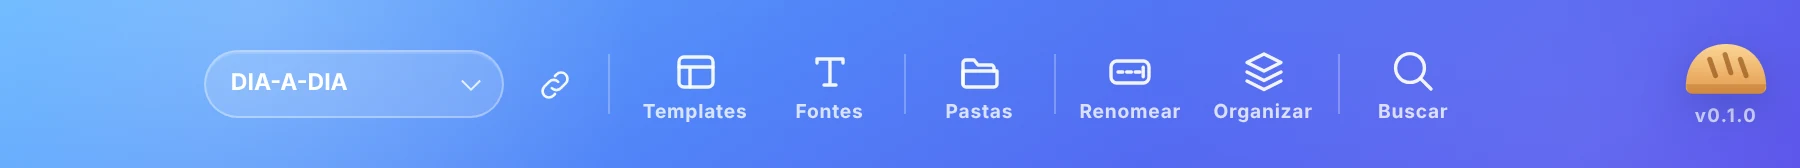
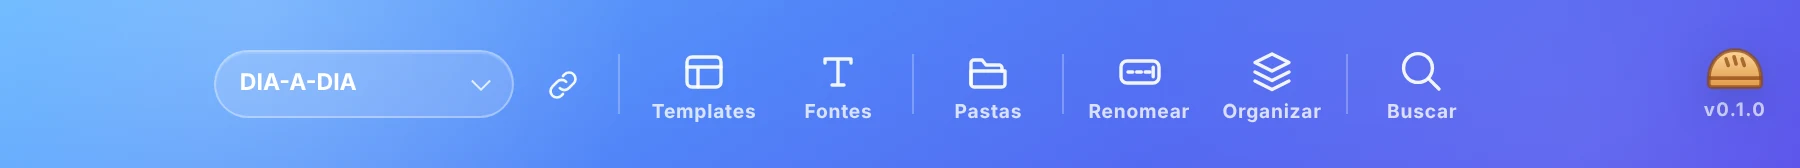
aviso das fontes mostra o resultado no mesmo lugar e desliza ao abrir e fechar; pãozinho menor e com contorno
- o aviso acima do input mostra 'instalando', o sucesso ou o erro no mesmo lugar; abre e fecha deslizando, e o que está embaixo acompanha
- texto: 'Fontes instaladas. Se precisar, reinicie o After Effects e/ou a máquina.' (fecha sozinho depois de 7 s)
- logo: 20% menor, mais arredondado, com contorno, linha da base e ranhuras curtas

Claude-Session: https://claude.ai/code/session_01DrYHfUyMEmqYvcFyKefNe2

diff --git a/extension/client/js/app.js b/extension/client/js/app.js
@@ -1109,36 +1109,86 @@ Toda a conversa com o After Effects passa por PAD_BRIDGE.call (bridge.js → hos
 		return state.fonts && state.selected && state.fonts.uri === state.selected.uri ? state.fonts.missing : [];
 	}
 
+	// Abre / fecha o aviso deslizando: o que está embaixo acompanha a altura (e o espaço entre os itens).
+	function slideStrip(box, open) {
+		var gap = parseFloat(getComputedStyle(box.parentNode).rowGap) || 0;
+		var closed = { height: '0px', paddingTop: '0px', paddingBottom: '0px', borderTopWidth: '0px', borderBottomWidth: '0px', marginBottom: -gap + 'px', opacity: 0 };
+
+		if (box._slide) box._slide.cancel();
+
+		if (open) box.hidden = false;
+
+		var full = { height: box.offsetHeight + 'px', paddingTop: '', paddingBottom: '', borderTopWidth: '', borderBottomWidth: '', marginBottom: '0px', opacity: 1 };
+
+		box.style.overflow = 'hidden';
+		box._slide = box.animate(open ? [closed, full] : [full, closed], { duration: 320, easing: 'cubic-bezier(0.22, 1, 0.36, 1)' });
+		box._slide.onfinish = function () {
+			box._slide = null;
+			box.style.overflow = '';
+			if (!open) box.hidden = true;
+		};
+	}
+
+	function stripButton(className, text, title, onClick) {
+		var btn = el('button', className, text);
+
+		btn.type = 'button';
+		btn.title = title;
+		btn.setAttribute('aria-label', title);
+		btn.addEventListener('click', onClick);
+
+		return btn;
+	}
+
+	// O aviso mostra as fontes faltando e, no mesmo lugar, o resultado da instalação.
 	function renderFontsWarning() {
 		var box = $('fonts-warning');
 		var missing = missingFonts();
-		var installing = !!state.fontsInstalling;
+		var note = state.fontsNote && state.selected && state.fontsNote.uri === state.selected.uri ? state.fontsNote : null;
+		var show = !!note || missing.length > 0;
+		var wasShown = !box.hidden && !(box._slide && box._closing);
 
-		box.hidden = !missing.length;
 		box.textContent = '';
-		box.disabled = installing;
-		box.classList.toggle('is-installing', installing);
+		box.className = 'fonts-warning' + (note ? ' is-' + note.kind : '') + (state.fontsInstalling ? ' is-installing' : '');
 
-		if (!missing.length) return;
-
-		if (installing) {
+		if (state.fontsInstalling) {
 			box.appendChild(el('strong', null, 'instalando fontes…'));
 			box.appendChild(el('span', null, missing.join(' · ')));
-			return;
+		} else if (note) {
+			box.appendChild(el('span', 'fonts-note', note.text));
+			if (note.kind !== 'success' && missing.length) box.appendChild(stripButton('fonts-action', 'instalar', 'tentar instalar de novo', installFonts));
+			box.appendChild(stripButton('fonts-close', '×', 'fechar aviso', closeFontsNote));
+		} else if (missing.length) {
+			box.appendChild(el('strong', null, plural(missing.length, 'fonte não instalada', 'fontes não instaladas')));
+			box.appendChild(el('span', null, missing.join(' · ')));
+			box.appendChild(stripButton('fonts-action', 'instalar', 'instalar: ' + missing.join(', '), installFonts));
 		}
 
-		box.appendChild(el('strong', null, plural(missing.length, 'fonte não instalada', 'fontes não instaladas')));
-		box.appendChild(el('span', null, missing.join(' · ')));
+		if (show && !wasShown) {
+			box._closing = false;
+			slideStrip(box, true);
+		} else if (!show && wasShown) {
+			box._closing = true;
+			slideStrip(box, false);
+		} else if (!show) {
+			box.hidden = true;
+		}
+	}
 
-		box.appendChild(el('em', null, 'instalar'));
-		box.title = 'instalar: ' + missing.join(', ');
+	function closeFontsNote() {
+		clearTimeout(state.fontsNoteTimer);
+		state.fontsNote = null;
+		renderFontsWarning();
 	}
 
 	async function installFonts() {
 		if (state.fontsInstalling || !state.selected) return;
 
 		var uri = state.selected.uri;
+		var note;
 
+		clearTimeout(state.fontsNoteTimer);
+		state.fontsNote = null;
 		state.fontsInstalling = true;
 		renderFontsWarning();
 
@@ -1148,14 +1198,20 @@ Toda a conversa com o After Effects passa por PAD_BRIDGE.call (bridge.js → hos
 
 			if (state.selected && state.selected.uri === uri) state.fonts = { uri: uri, missing: missing, total: res.data.total };
 
-			if (!missing.length) notify('success', 'Fontes instaladas. Se o After Effects ainda não mostrar alguma, reinicie-o.');
-			else notify('warning', (res.messages.length ? res.messages.join(' ') + ' ' : '') + 'Ainda não aparecem como instaladas: ' + missing.join(', '));
+			note = !missing.length
+				? { kind: 'success', text: 'Fontes instaladas. Se precisar, reinicie o After Effects e/ou a máquina.' }
+				: { kind: 'warning', text: (res.messages.length ? res.messages.join(' ') + ' ' : '') + 'Ainda não aparecem como instaladas: ' + missing.join(', ') };
 		} catch (err) {
-			notify('error', err.message);
+			note = { kind: 'error', text: err.message };
 		}
 
+		note.uri = uri;
+		state.fontsNote = note;
 		state.fontsInstalling = false;
 		renderFontsWarning();
+
+		// o aviso de sucesso fecha sozinho (os outros esperam o ×)
+		if (note.kind === 'success') state.fontsNoteTimer = setTimeout(closeFontsNote, 7000);
 	}
 
 	// Antes de importar o template selecionado: confere de novo (alguém pode ter instalado as fontes).
@@ -1671,7 +1727,6 @@ Toda a conversa com o After Effects passa por PAD_BRIDGE.call (bridge.js → hos
 			startFill();
 		});
 
-		$('fonts-warning').addEventListener('click', installFonts);
 		$('btn-output').addEventListener('click', openOutputs);
 		$('btn-output-run').addEventListener('click', openOutputs);
 		$('btn-queue').addEventListener('click', createQueue);

diff --git a/extension/client/css/panel.css b/extension/client/css/panel.css
@@ -1841,26 +1841,18 @@ body.motion-ready .eyebrow {
 .fonts-warning {
   display: flex;
   width: 100%;
-  flex-wrap: wrap;
-  align-items: baseline;
-  gap: 4px 10px;
-  padding: 10px 14px;
+  align-items: center;
+  gap: 10px;
+  padding: 10px 10px 10px 14px;
   border: 1px solid #f1d9a6;
   border-radius: var(--radius-medium);
   background: var(--waiting-bg);
   color: var(--waiting);
-  cursor: pointer;
-  font: inherit;
   font-size: 0.74rem;
-  text-align: left;
   transition:
-    border-color 180ms ease,
-    transform 220ms var(--ease-soft);
-}
-
-.fonts-warning:hover {
-  border-color: #e4bd6b;
-  transform: translateY(-1px);
+    background-color 220ms ease,
+    border-color 220ms ease,
+    color 220ms ease;
 }
 
 .fonts-warning[hidden] {
@@ -1869,11 +1861,32 @@ body.motion-ready .eyebrow {
 
 .fonts-warning.is-installing {
   cursor: progress;
-  opacity: 0.75;
-  transform: none;
+}
+
+.fonts-warning.is-installing strong {
+  animation: fonts-pulse 900ms ease-in-out infinite alternate;
+}
+
+@keyframes fonts-pulse {
+  to {
+    opacity: 0.45;
+  }
+}
+
+.fonts-warning.is-success {
+  border-color: #bde5d2;
+  background: var(--success-bg);
+  color: var(--success);
+}
+
+.fonts-warning.is-error {
+  border-color: var(--danger-border);
+  background: var(--danger-bg);
+  color: var(--danger);
 }
 
 .fonts-warning strong {
+  flex: 0 0 auto;
   font-weight: 750;
 }
 
@@ -1886,10 +1899,48 @@ body.motion-ready .eyebrow {
   white-space: nowrap;
 }
 
-.fonts-warning em {
-  font-style: normal;
+.fonts-warning .fonts-note {
+  color: inherit;
+  font-weight: 650;
+  white-space: normal;
+}
+
+.fonts-action,
+.fonts-close {
+  flex: 0 0 auto;
+  border: 0;
+  background: transparent;
+  color: inherit;
+  cursor: pointer;
+  font: inherit;
   font-weight: 750;
+}
+
+.fonts-action {
+  padding: 2px 4px;
   text-decoration: underline;
   text-underline-offset: 3px;
+}
+
+.fonts-close {
+  display: grid;
+  width: 24px;
+  height: 24px;
+  place-items: center;
+  padding: 0;
+  border-radius: 50%;
+  font-size: 0.9rem;
+  line-height: 1;
+  opacity: 0.7;
+  transition:
+    opacity 160ms ease,
+    background-color 160ms ease,
+    transform 260ms var(--ease-soft);
+}
+
+.fonts-close:hover {
+  background: rgb(0 0 0 / 6%);
+  opacity: 1;
+  transform: rotate(90deg);
 }
 

diff --git a/extension/client/bar.html b/extension/client/bar.html
@@ -70,9 +70,9 @@
 							<stop offset="1" stop-color="#e29a4c" />
 						</linearGradient>
 					</defs>
-					<path class="loaf-body" d="M3 26.5C3 12.5 12 4 24 4s21 8.500 21 22.500c0 2-1.500 3.500-3.500 3.500h-35C4.500 30 3 28.500 3 26.500z" fill="url(#loaf-grad)" />
-					<path d="M3.200 25h41.600c-.3 2.800-1.500 5-3.300 5h-35c-1.800 0-3-2.200-3.300-5z" fill="rgb(150 80 20 / 24%)" />
-					<path class="loaf-scores" d="m15.500 12 3 8.500M23.500 9.500l3 9.500M31.500 12l3 8.500" />
+					<path class="loaf-body" d="M7 24C7 12.6 14.6 5 24 5s17 7.6 17 19v3a2 2 0 0 1-2 2H9a2 2 0 0 1-2-2z" fill="url(#loaf-grad)" />
+					<path class="loaf-line" d="M7.6 23.2h32.8" />
+					<path class="loaf-scores" d="m18.2 10.8 1.4 4.2M23.4 9.4l1.3 4.6M28.6 10.8l1.4 4.2" />
 				</svg>
 				<span class="bar-version" id="version">v0.1.0</span>
 			</button>

diff --git a/extension/client/css/bar.css b/extension/client/css/bar.css
@@ -92,18 +92,26 @@ body.bar-page {
 }
 
 .bar-loaf {
-  width: 46px;
-  height: 31px;
+  width: 37px;
+  height: 25px;
   overflow: visible;
   filter: drop-shadow(0 6px 10px rgb(24 43 113 / 28%));
   transition: transform 300ms var(--ease-soft);
 }
 
+/* contorno, linha da base e ranhuras no mesmo traço (como o ícone de pão das produções) */
+.bar-loaf .loaf-body,
+.bar-loaf .loaf-line,
+.bar-loaf .loaf-scores {
+  stroke: rgb(140 72 18 / 72%);
+  stroke-linecap: round;
+  stroke-linejoin: round;
+  stroke-width: 2.4;
+}
+
+.bar-loaf .loaf-line,
 .bar-loaf .loaf-scores {
   fill: none;
-  stroke: rgb(140 72 18 / 62%);
-  stroke-linecap: round;
-  stroke-width: 2.6;
 }
 
 .bar-logo:hover .bar-loaf {

diff --git a/extension/client/index.html b/extension/client/index.html
@@ -146,7 +146,7 @@
 						</div>
 					</div>
 
-					<button type="button" class="fonts-warning" id="fonts-warning" hidden></button>
+					<div class="fonts-warning" id="fonts-warning" role="status" aria-live="polite" hidden></div>
 
 					<div class="field">
 						<div class="field-head">

diff --git a/README.md b/README.md
@@ -203,7 +203,7 @@ ao selecionar um template, o padeiro confere se as fontes da pasta `FONTS` dele 
 
 > ![aviso de fontes](docs/images/templates-aviso-fontes.webp)
 
-- **instalar** (no aviso) → instala as fontes que faltam, ali mesmo.
+- **instalar** (no aviso) → instala as fontes que faltam, ali mesmo. o resultado aparece no próprio aviso, que se fecha no ×.
 - **preencher** (ou importar) com fontes faltando → segue normalmente, sem a janela '*Resolve Fonts*' do After Effects (as fontes que faltam são trocadas pela padrão).
 
 > 🚩 *obs:*\
